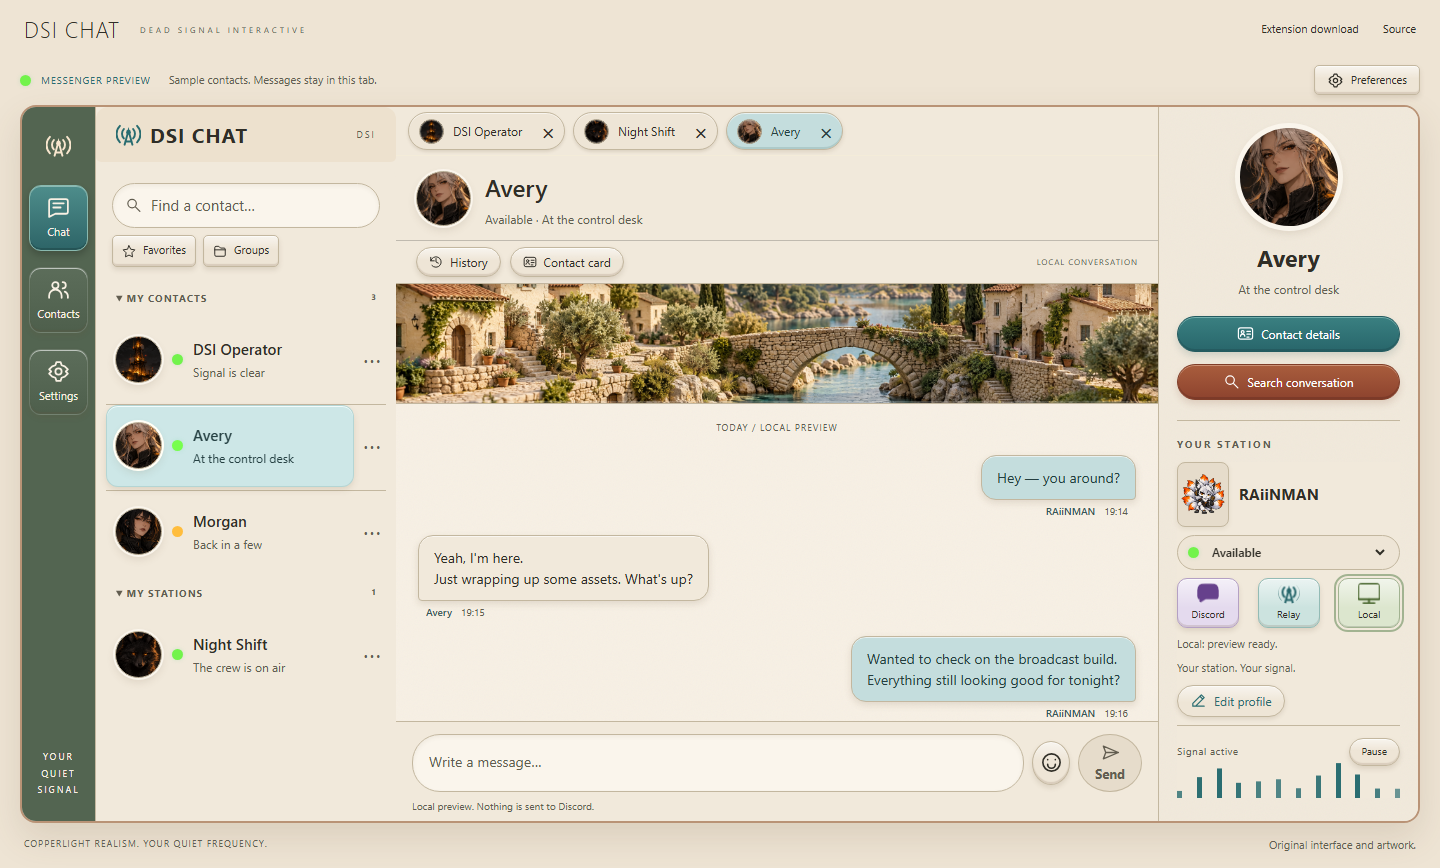
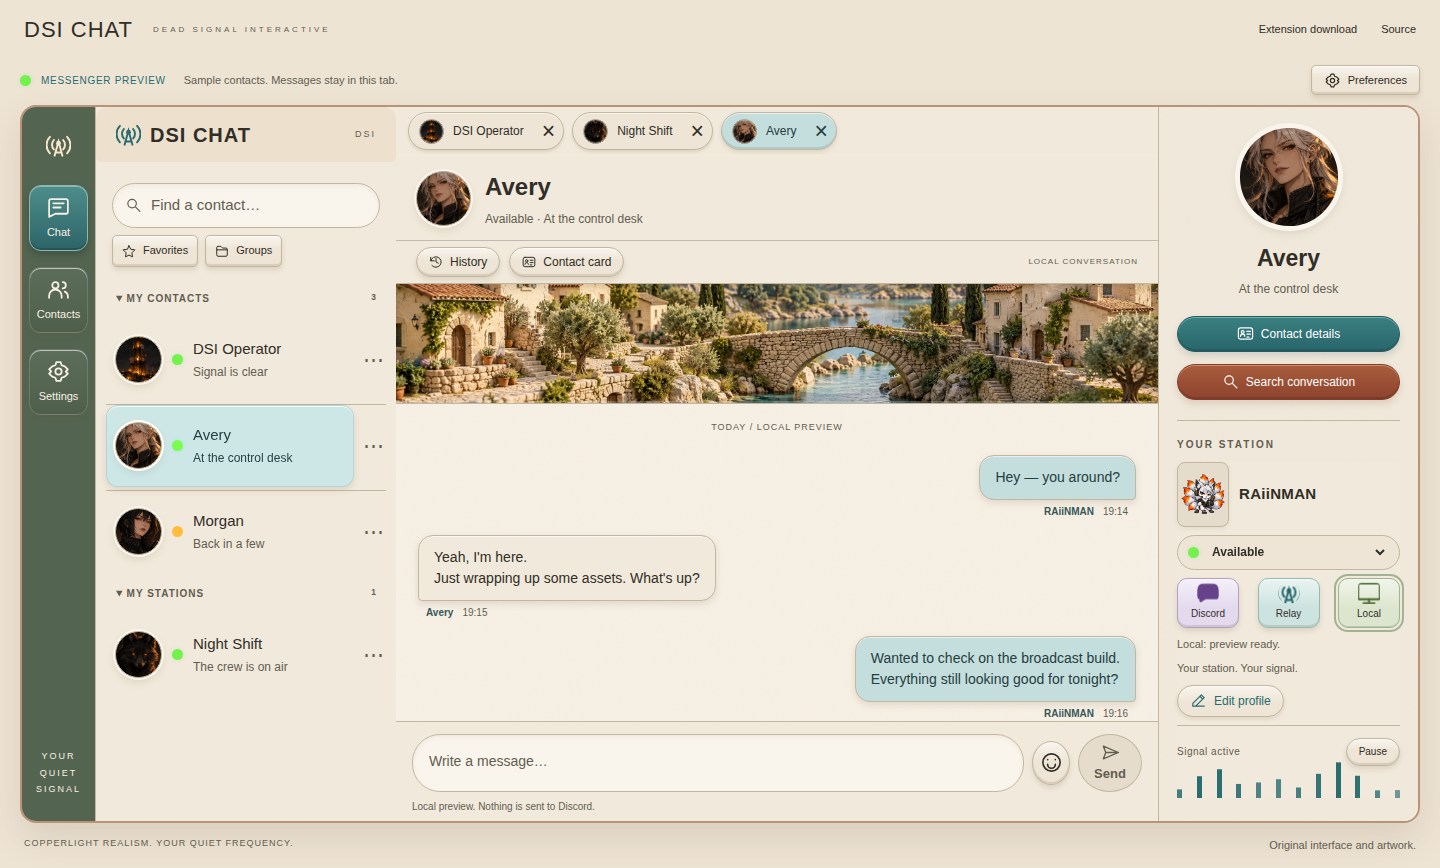
Record reviewed Copperlight second enhancement pass

diff --git a/docs/STATE.md b/docs/STATE.md
@@ -63,3 +63,5 @@ Copperlight published successfully in Pages run 37115122884 (https://github.com/
 October 3 Copperlight second enhancement pass: original UI SVG symbols, search/navigation/action/composer icons, soft drop shadows and shallow button bevels, turquoise/terracotta sidebar actions and lavender/turquoise/sage service colors. Removed the conversation-header meter and moved the existing saved/system-aware Play/Pause to the only remaining sidebar meter. Local sixteen tests, catalog/build/site, browser QA and corrected diff checks passed. Browser checks assert only one sidebar meter, control location and visibility at 1440x844, mobile-only Contacts, persisted pause/system motion, full themes, focus, draft/group/profile/export and responsive behavior. Screenshot review corrected desktop Contacts display and sidebar meter spacing; desktop, phone, Night and High contrast were inspected. Runtime dependency count remains zero. GitHub review/publication pending.
 
 Second detail-pass first review 37115801933 passed (https://github.com/raiinman/DSI-CHAT/actions/runs/37115801933). Inspected GitHub desktop, phone, Night, High contrast and 768 captures. Corrected inherited profile-action stacking to use normal flex painting after the phone capture omitted it below the fold. Sixteen tests, catalog/build/site, local browser QA and diff checks passed again; final review follows.
+
+Second enhancement runtime 147a9b0 passed final review-only run 37116008875 (https://github.com/raiinman/DSI-CHAT/actions/runs/37116008875). Downloaded and inspected final desktop/phone/High contrast screenshots, with Night/tablet inspected in the preceding review (their layout/style is unchanged by the profile stacking fix). Phone Edit profile is visible; the sole sidebar meter and Play/Pause fit desktop. Representative captures now come from final GitHub artifacts. All checks passed and publication was skipped. Owning DOX links/evidence and published-guide exclusion passed. Root/README/platform/build/catalog/workflow ownership and guides remain unchanged because this enhancement changes no scope or platform/build contract. Publication follows.

diff --git a/docs/CODEX_HANDOFF.md b/docs/CODEX_HANDOFF.md
@@ -7,7 +7,7 @@ Prepared October 3, 2026. Continue the existing implementation; do not restart t
 - Repository: https://github.com/raiinman/DSI-CHAT
 - Active implementation and publishing branch: `codex/dsi-original`.
 - Repository default branch `rewrite` preserves the earlier third-party fork. It is NOT the implementation to continue. Do not merge its source/assets into this branch or remove its license notices.
-- Copperlight reviewed runtime: `2dea286`; published source: `e13f709`. Final review-only run `37114985868`, Pages `37115122884` and extension CI `37115122920` passed. Public hashes match all 22 reviewed site files. Subsequent documentation commits may advance the branch without changing runtime files.
+- Copperlight second enhancement reviewed runtime: `147a9b0`; final review-only run `37116008875` passed. Publication evidence is recorded in STATE.md. Subsequent documentation commits may advance the branch without changing runtime files.
 - Live preview: https://raiinman.github.io/DSI-CHAT/
 - Existing local checkout: `C:\Users\mikea\Documents\Codex\2026-09-30\new-chat-3\DSI-CHAT-original`.
 
